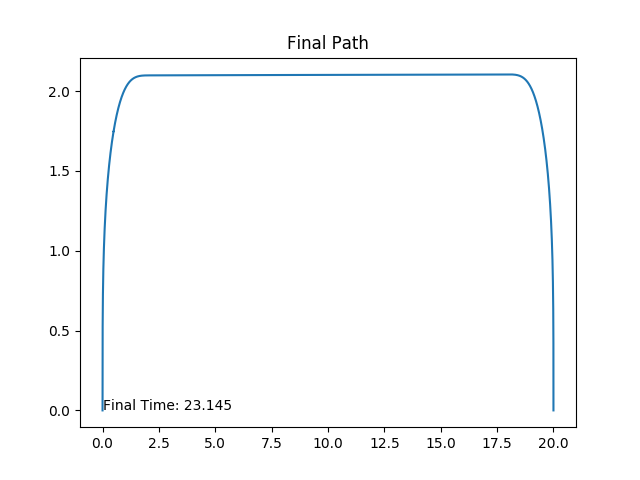
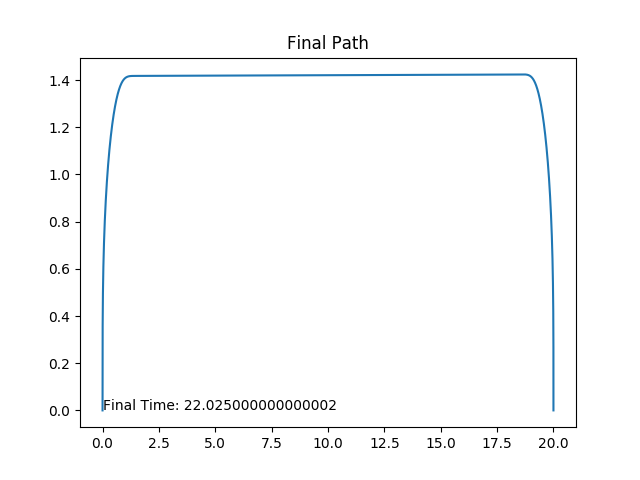
removed smooth path states

diff --git a/BackmanAlgorithm/SmoothPlanner.py b/BackmanAlgorithm/SmoothPlanner.py
@@ -23,34 +23,36 @@ class SmoothPathPlanner:
         if headlandSpeedReverse > vConstraints[1]:
             raise ValueError("Headland Speed in reverse should not be smaller than V Min")
 
-        self.kMax = kConstraints[0]
-        self.kMin = kConstraints[1]
-        self.kDotMax = kConstraints[2]
-        self.kDotMin = kConstraints[3]
-        self.kDDotMax = kConstraints[4]
-        self.kDDotMin = kConstraints[5]
+        if not (len(kConstraints) == 6 and len(vConstraints) == 6):
+            raise TypeError('kConstraintsand/or vConstraints not of correct dimension.')
+        else:
+            self.kMax = kConstraints[0]
+            self.kMin = kConstraints[1]
+            self.kDotMax = kConstraints[2]
+            self.kDotMin = kConstraints[3]
+            self.kDDotMax = kConstraints[4]
+            self.kDDotMin = kConstraints[5]
 
-        self.vMax = vConstraints[0]
-        self.vMin = vConstraints[1]
-        self.vDotMax = vConstraints[2]
-        self.vDotMin = vConstraints[3]
-        self.vDDotMax = vConstraints[4]
-        self.vDDotMin = vConstraints[5]
+            self.vMax = vConstraints[0]
+            self.vMin = vConstraints[1]
+            self.vDotMax = vConstraints[2]
+            self.vDotMin = vConstraints[3]
+            self.vDDotMax = vConstraints[4]
+            self.vDDotMin = vConstraints[5]
 
         self.headlandSpeed = headlandSpeed
         self.headlandSpeedReverse = headlandSpeedReverse
 
-
     def setStartAndGoal(self, initalState, finalState):
         """ Set Start and Goal States, both states must be SmoothPathStates"""
 
-        if not (isinstance(initalState, SmoothPathState) and isinstance(initalState, SmoothPathState)):
-            raise TypeError('Start and Goal not SmoothPathStates')
+        if not (len(initalState) == 5 and len(finalState) == 5):
+            raise TypeError('Start and/or Goal not of correct dimension: [x, y, th, v, k]')
         else:
             self.initialState = initalState
             self.finalState = finalState
-            self.k_C0 = initalState.k
-            self.k_C4 = finalState.k
+            self.k_C0 = initalState[4]
+            self.k_C4 = finalState[4]
 
     def setNominalCurvatures(self, kStart, kCenter, kEnd, reverse):
         """ 
@@ -402,16 +404,16 @@ class SmoothPathPlanner:
             K_S1 = self.generateCurvatureTrajectoryDDot(
                 self.k_C0, self.k_C1)
             v_S1 = self.generateSpeedTrajectoryDDot(
-                self.initialState.v, self.headlandSpeed)
+                self.initialState[3], self.headlandSpeed)
             trajectories = self.makeTrajectoriesEqualLength(K_S1, v_S1, False)
             self.cut_v_S1 = trajectories['cutV']
             v_C1 = trajectories['leftover']
-            xo = [self.initialState.x, self.initialState.y,self.initialState.theta]
+            xo = [self.initialState[0], self.initialState[1],self.initialState[2]]
             self.S1 = SpiralSegment(trajectories['kTraj'], trajectories['vTraj'], xo, self.dT)
             
             ################ generate last connecting spiral ################
             K_S4 = self.generateCurvatureTrajectoryDDot(self.k_C3, self.k_C4)
-            v_S4 = self.generateSpeedTrajectoryDDot(self.headlandSpeed, self.finalState.v)
+            v_S4 = self.generateSpeedTrajectoryDDot(self.headlandSpeed, self.finalState[3])
             trajectories = self.makeTrajectoriesEqualLength(K_S4, v_S4, True)
             self.cut_v_S4 = trajectories['cutV']
             v_C3 = trajectories['leftover']
@@ -419,7 +421,7 @@ class SmoothPathPlanner:
             self.S4 = SpiralSegment(
                 trajectories['kTraj'], trajectories['vTraj'], xo, self.dT)
 
-            self.S4.placePath(self.finalState.x, self.finalState.y, self.finalState.theta, False)
+            self.S4.placePath(self.finalState[0], self.finalState[1], self.finalState[2], False)
 
             ################ generate second connecting spiral ################
             
@@ -593,7 +595,7 @@ class SmoothPathPlanner:
 
         return FullPath(self.dT, self.S1, self.C1, self.S2, self.C2, self.S3, self.C3, self.S4)
 
-    def planShortest(self, displayLevel = 0):
+    def planShortest(self):
         RSR = [self.kMin, 0, self.kMin, False]
         LSL = [self.kMax, 0, self.kMax, False]
         LRL = [self.kMax, self.kMin, self.kMax, False]
@@ -624,8 +626,8 @@ class SmoothPathPlanner:
 def main():
 
     # x pos., ypos., orientation, speed, curvature
-    initialState = SmoothPathState(0.0, 0.0, 0.5*np.pi, 0.8, 0)
-    finalState = SmoothPathState(20, 0.0, -0.5*np.pi, 0.8, 0)
+    initialState = [0.0, 0.0, 0.5*np.pi, 0.8, 0]
+    finalState = [20, 0.0, -0.5*np.pi, 0.8, 0]
     L_w = 1.0
     gamma_max = np.pi/4.0
     
@@ -636,8 +638,8 @@ def main():
     kMin = -kMax
     kDotMax = 5.0  # max derivative of curvature
     kDotMin = -kDotMax  # min derivative of curvature
-    kDDotMax = 1.0
-    kDDotMin = -1.0
+    kDDotMax = 5.0
+    kDDotMin = -5.0
 
     kConstraints = [kMax, kMin, kDotMax, kDotMin, kDDotMax, kDDotMin]
 
@@ -645,8 +647,8 @@ def main():
     vMin = -vMax
     vDotMax = 1.0
     vDotMin = -vDotMax
-    vDDotMax = 1.0
-    vDDotMin = -1.0
+    vDDotMax = 5.0
+    vDDotMin = -5.0
     headlandSpeed = vMax
     headlandSpeedReverse = vMin
 
